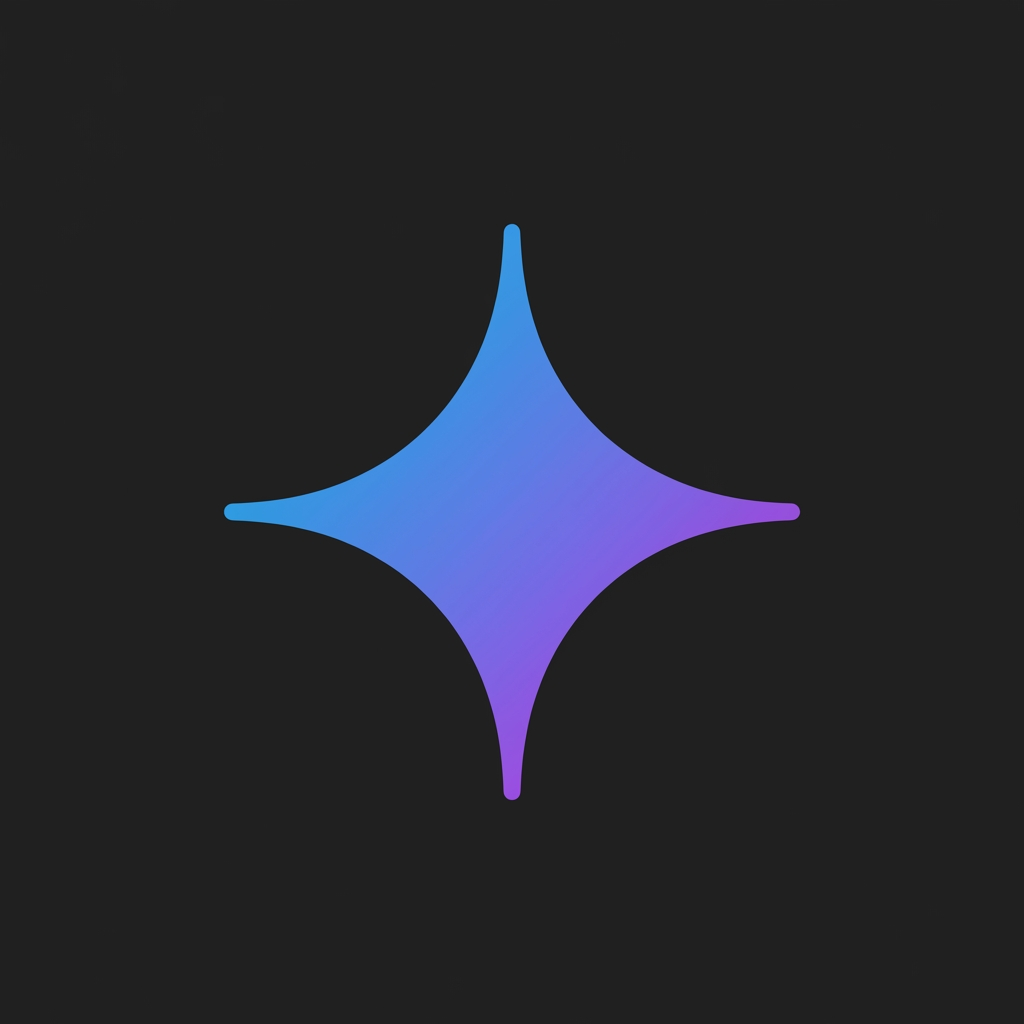
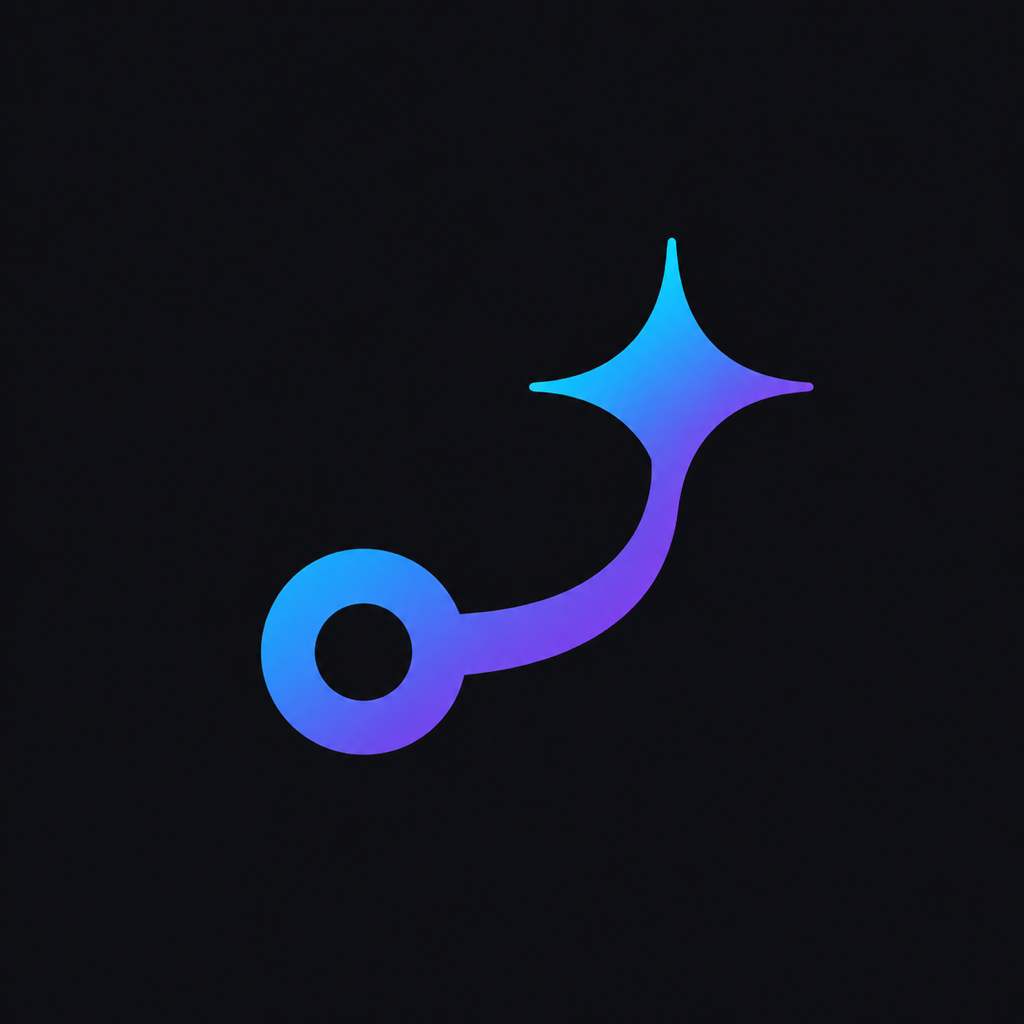
chore(release): 更新至 v1.0.8 并优化扩展配置
- 更新扩展图标为全新的 commit-and-sparkle 标识。
- 更新默认 AI 模型配置：
  - DeepSeek: `deepseek-v4-flash`
  - MiniMax: `MiniMax-M2.7`
  - Moonshot: `kimi-k2.6`
  - GLM: `glm-5.1`
- 同步更新 `README.md`、`README_zh.md` 和 `package.json` 中的模型文档。

Changed region(s): [[0.2188, 0.2188, 0.8125, 0.7812]]

diff --git a/src/types.ts b/src/types.ts
@@ -104,10 +104,10 @@ export const GitStatus = {
 
 export const PROVIDERS: Record<string, ProviderConfig> = {
   OpenAI: { baseUrl: 'https://api.openai.com/v1', model: 'gpt-5-nano' },
-  DeepSeek: { baseUrl: 'https://api.deepseek.com', model: 'deepseek-chat' },
-  MiniMax: { baseUrl: 'https://api.minimaxi.com/v1', model: 'MiniMax-M2.5' },
-  Moonshot: { baseUrl: 'https://api.moonshot.cn/v1', model: 'kimi-k2-turbo-preview' },
-  GLM: { baseUrl: 'https://open.bigmodel.cn/api/paas/v4', model: 'glm-5' },
+  DeepSeek: { baseUrl: 'https://api.deepseek.com', model: 'deepseek-v4-flash' },
+  MiniMax: { baseUrl: 'https://api.minimaxi.com/v1', model: 'MiniMax-M2.7' },
+  Moonshot: { baseUrl: 'https://api.moonshot.cn/v1', model: 'kimi-k2.6' },
+  GLM: { baseUrl: 'https://open.bigmodel.cn/api/paas/v4', model: 'glm-5.1' },
   Gemini: { baseUrl: 'https://generativelanguage.googleapis.com/v1beta/openai', model: 'gemini-3.1-flash-lite-preview' },
   OpenRouter: { baseUrl: 'https://openrouter.ai/api/v1', model: 'openrouter/free' },
 };

diff --git a/README.md b/README.md
@@ -11,11 +11,11 @@ Links: [GitHub](https://github.com/codertesla/wtf-commit) | [Open VSX](https://o
 
 WTF Commit is a minimalist VS Code extension that uses AI to generate concise and meaningful Git commit messages from your staged changes (or working tree changes).
 
-## 🆕 Latest (v1.0.7)
+## 🆕 Latest (v1.0.8)
 
-- **Push Success Notification Restored**: Auto-push now shows a clear VS Code information notification again after a successful push.
-- **Dual Success Feedback**: Push completion now combines the restored notification with the status bar cloud-upload signal for stronger visibility.
-- **Stable Auto-Push Flow**: The success path now carries progress feedback, status bar feedback, and a completion notification in one consistent sequence.
+- **Refined Marketplace Icon**: The extension now uses a simpler abstract commit-and-sparkle logo.
+- **Provider Defaults Updated**: DeepSeek now defaults to `deepseek-v4-flash`, MiniMax to `MiniMax-M2.7`, Kimi to `kimi-k2.6`, and GLM to `glm-5.1`.
+- **Cleaner Default Model Docs**: The built-in provider table has been refreshed to match the runtime defaults.
 
 ## 🚀 Features
 
@@ -77,10 +77,10 @@ If **Base URL** and **Model** are left empty, the extension uses these defaults:
 | Provider | Default Model | Default Base URL |
 |----------|---------------|-----------------|
 | **OpenAI** | `gpt-5-nano` | `https://api.openai.com/v1` |
-| **DeepSeek** | `deepseek-chat` | `https://api.deepseek.com` |
-| **MiniMax** | `MiniMax-M2.5` | `https://api.minimaxi.com/v1` |
-| **Moonshot** | `kimi-k2-turbo-preview` | `https://api.moonshot.cn/v1` |
-| **GLM** | `glm-5` | `https://open.bigmodel.cn/api/paas/v4` |
+| **DeepSeek** | `deepseek-v4-flash` | `https://api.deepseek.com` |
+| **MiniMax** | `MiniMax-M2.7` | `https://api.minimaxi.com/v1` |
+| **Moonshot** | `kimi-k2.6` | `https://api.moonshot.cn/v1` |
+| **GLM** | `glm-5.1` | `https://open.bigmodel.cn/api/paas/v4` |
 | **Gemini** | `gemini-3.1-flash-lite-preview` | `https://generativelanguage.googleapis.com/v1beta/openai` |
 | **OpenRouter** | `openrouter/free` | `https://openrouter.ai/api/v1` |
 | **Custom** | - | - |

diff --git a/CHANGELOG.md b/CHANGELOG.md
@@ -5,6 +5,11 @@ All notable changes to the "wtf-commit" extension will be documented in this fil
 The format is based on [Keep a Changelog](https://keepachangelog.com/en/1.1.0/),
 and this project adheres to [Semantic Versioning](https://semver.org/spec/v2.0.0.html).
 
+## [1.0.8] - 2026-04-29
+### Changed
+- **Refined Marketplace Icon**: Replaced the extension logo with a simpler abstract commit-and-sparkle mark for clearer marketplace recognition.
+- **Default Model Refresh**: Updated provider defaults to DeepSeek `deepseek-v4-flash`, MiniMax `MiniMax-M2.7`, Moonshot/Kimi `kimi-k2.6`, and GLM `glm-5.1`.
+
 ## [1.0.7] - 2026-04-12
 ### Fixed
 - **Push Success Notification Restored**: Auto-push now shows a clear VS Code information notification again after a successful push, alongside the status bar success signal.